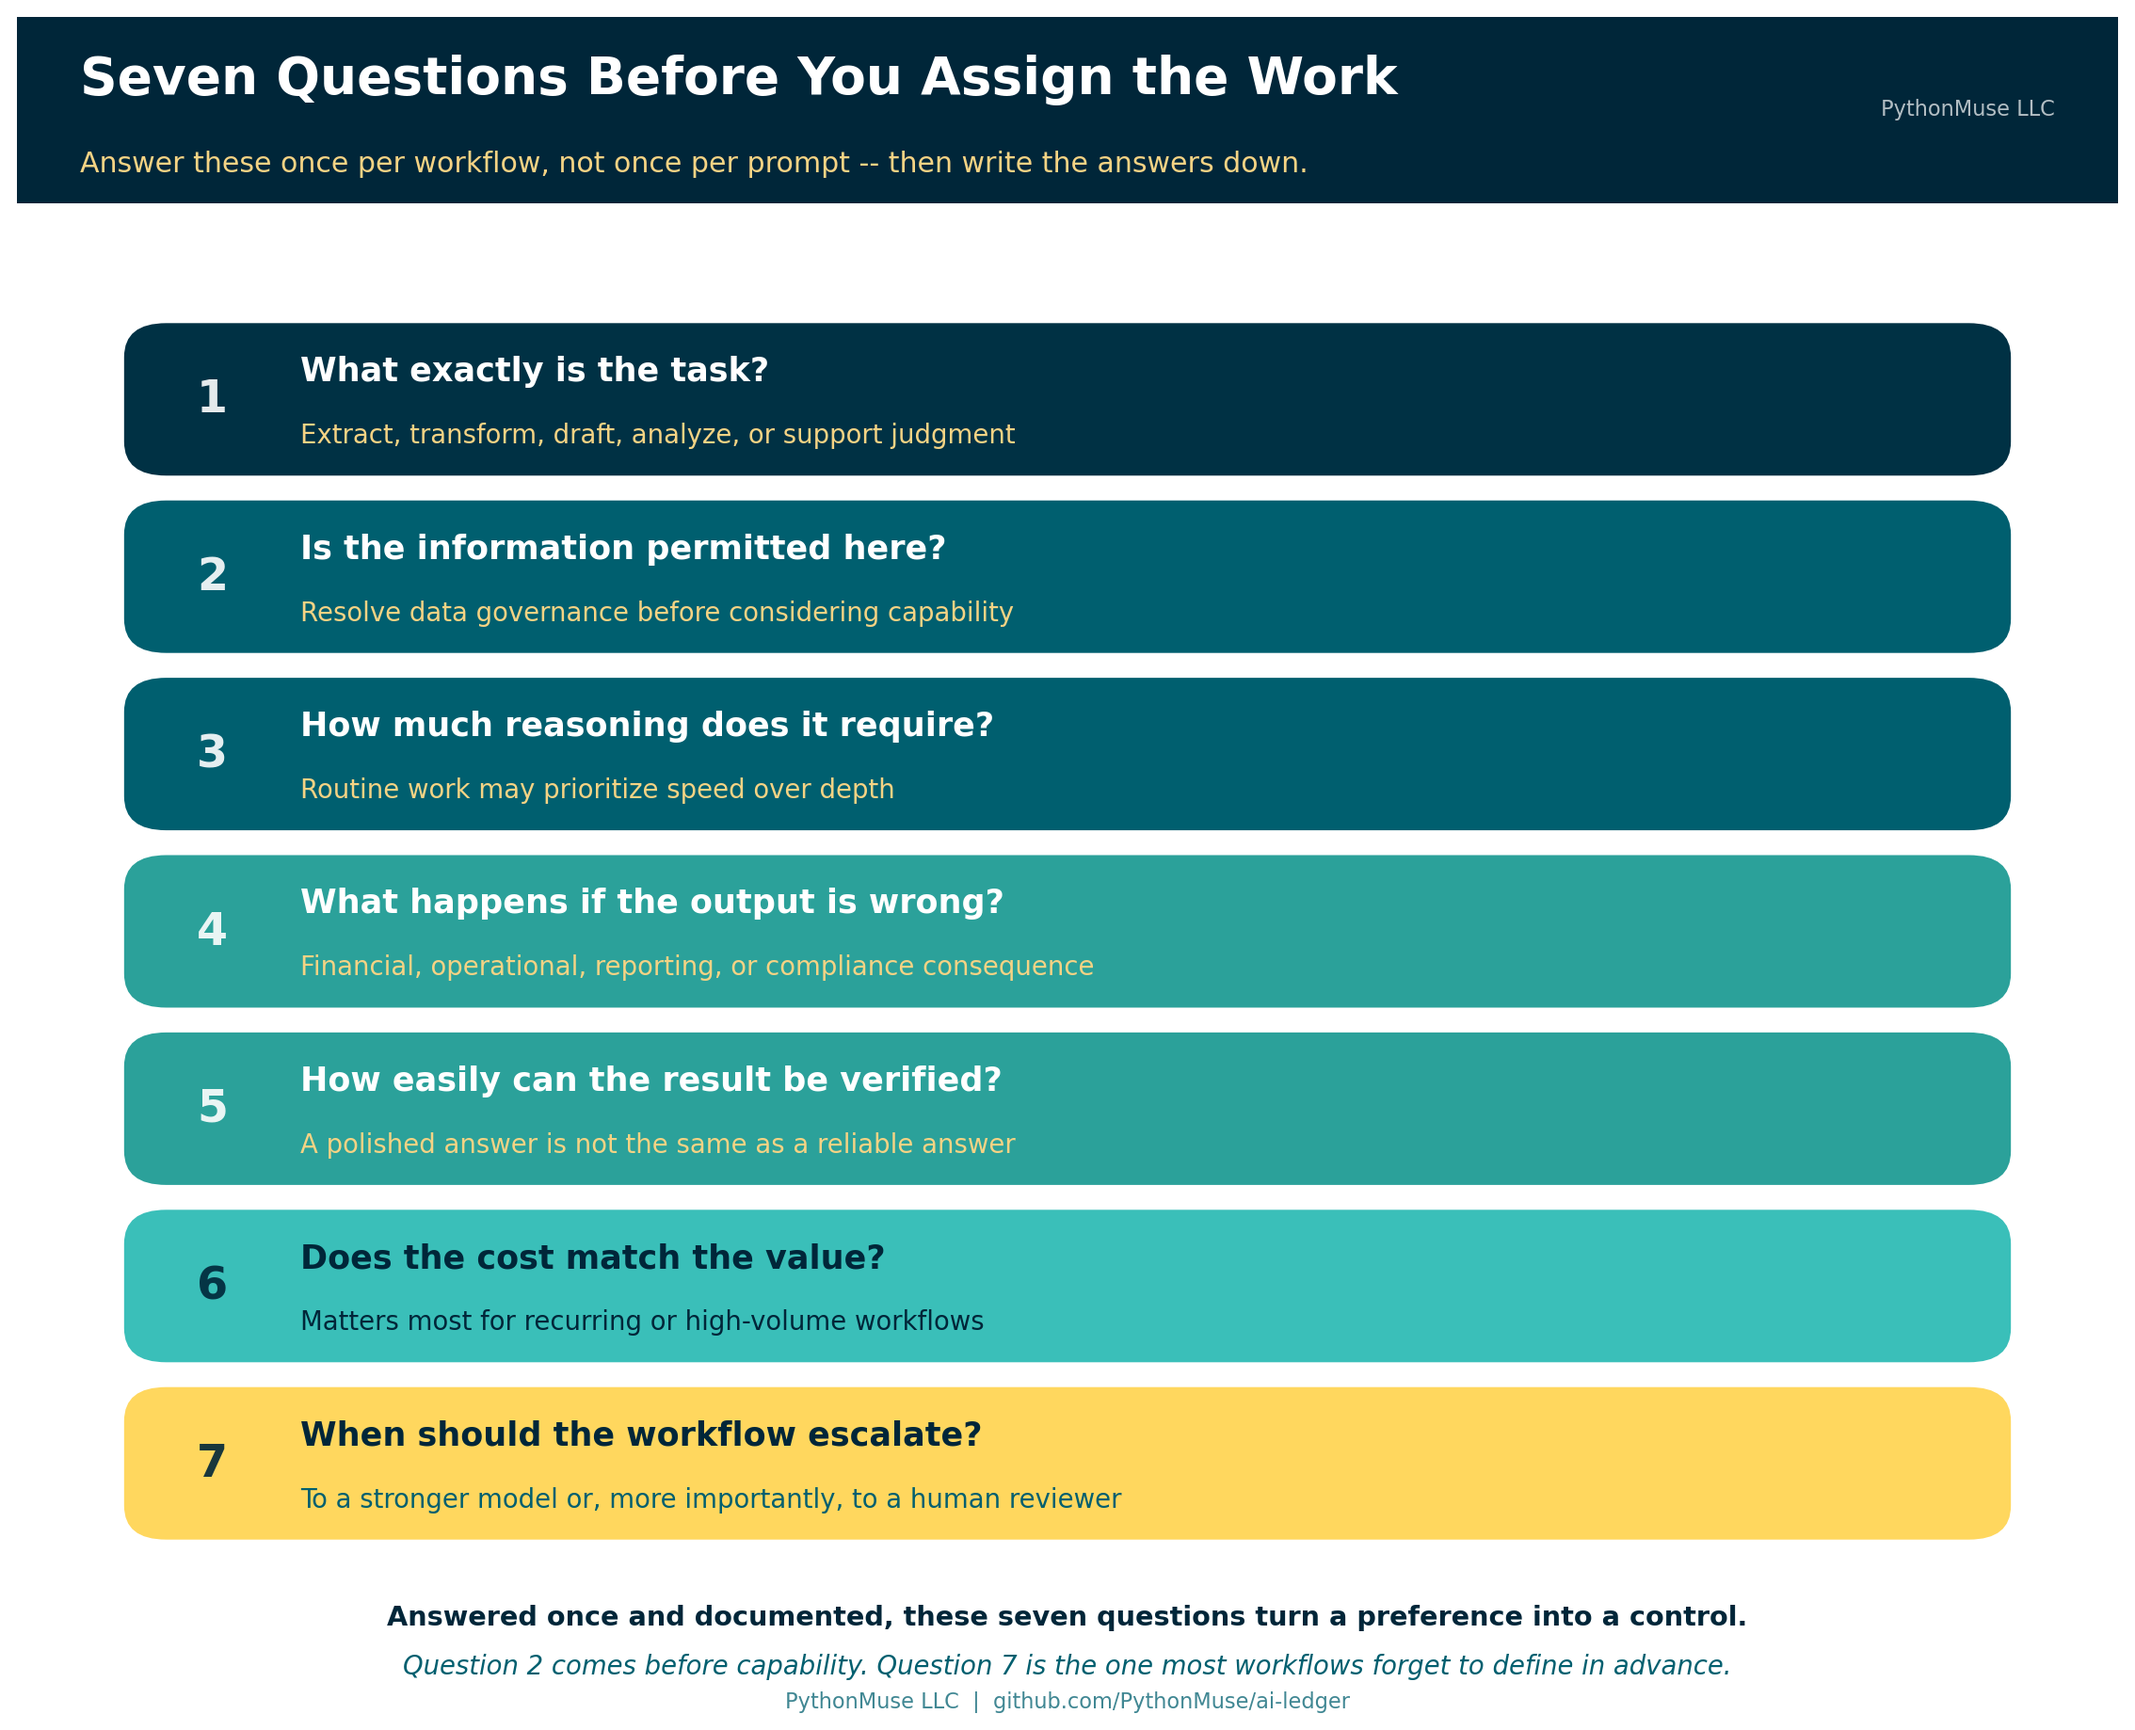
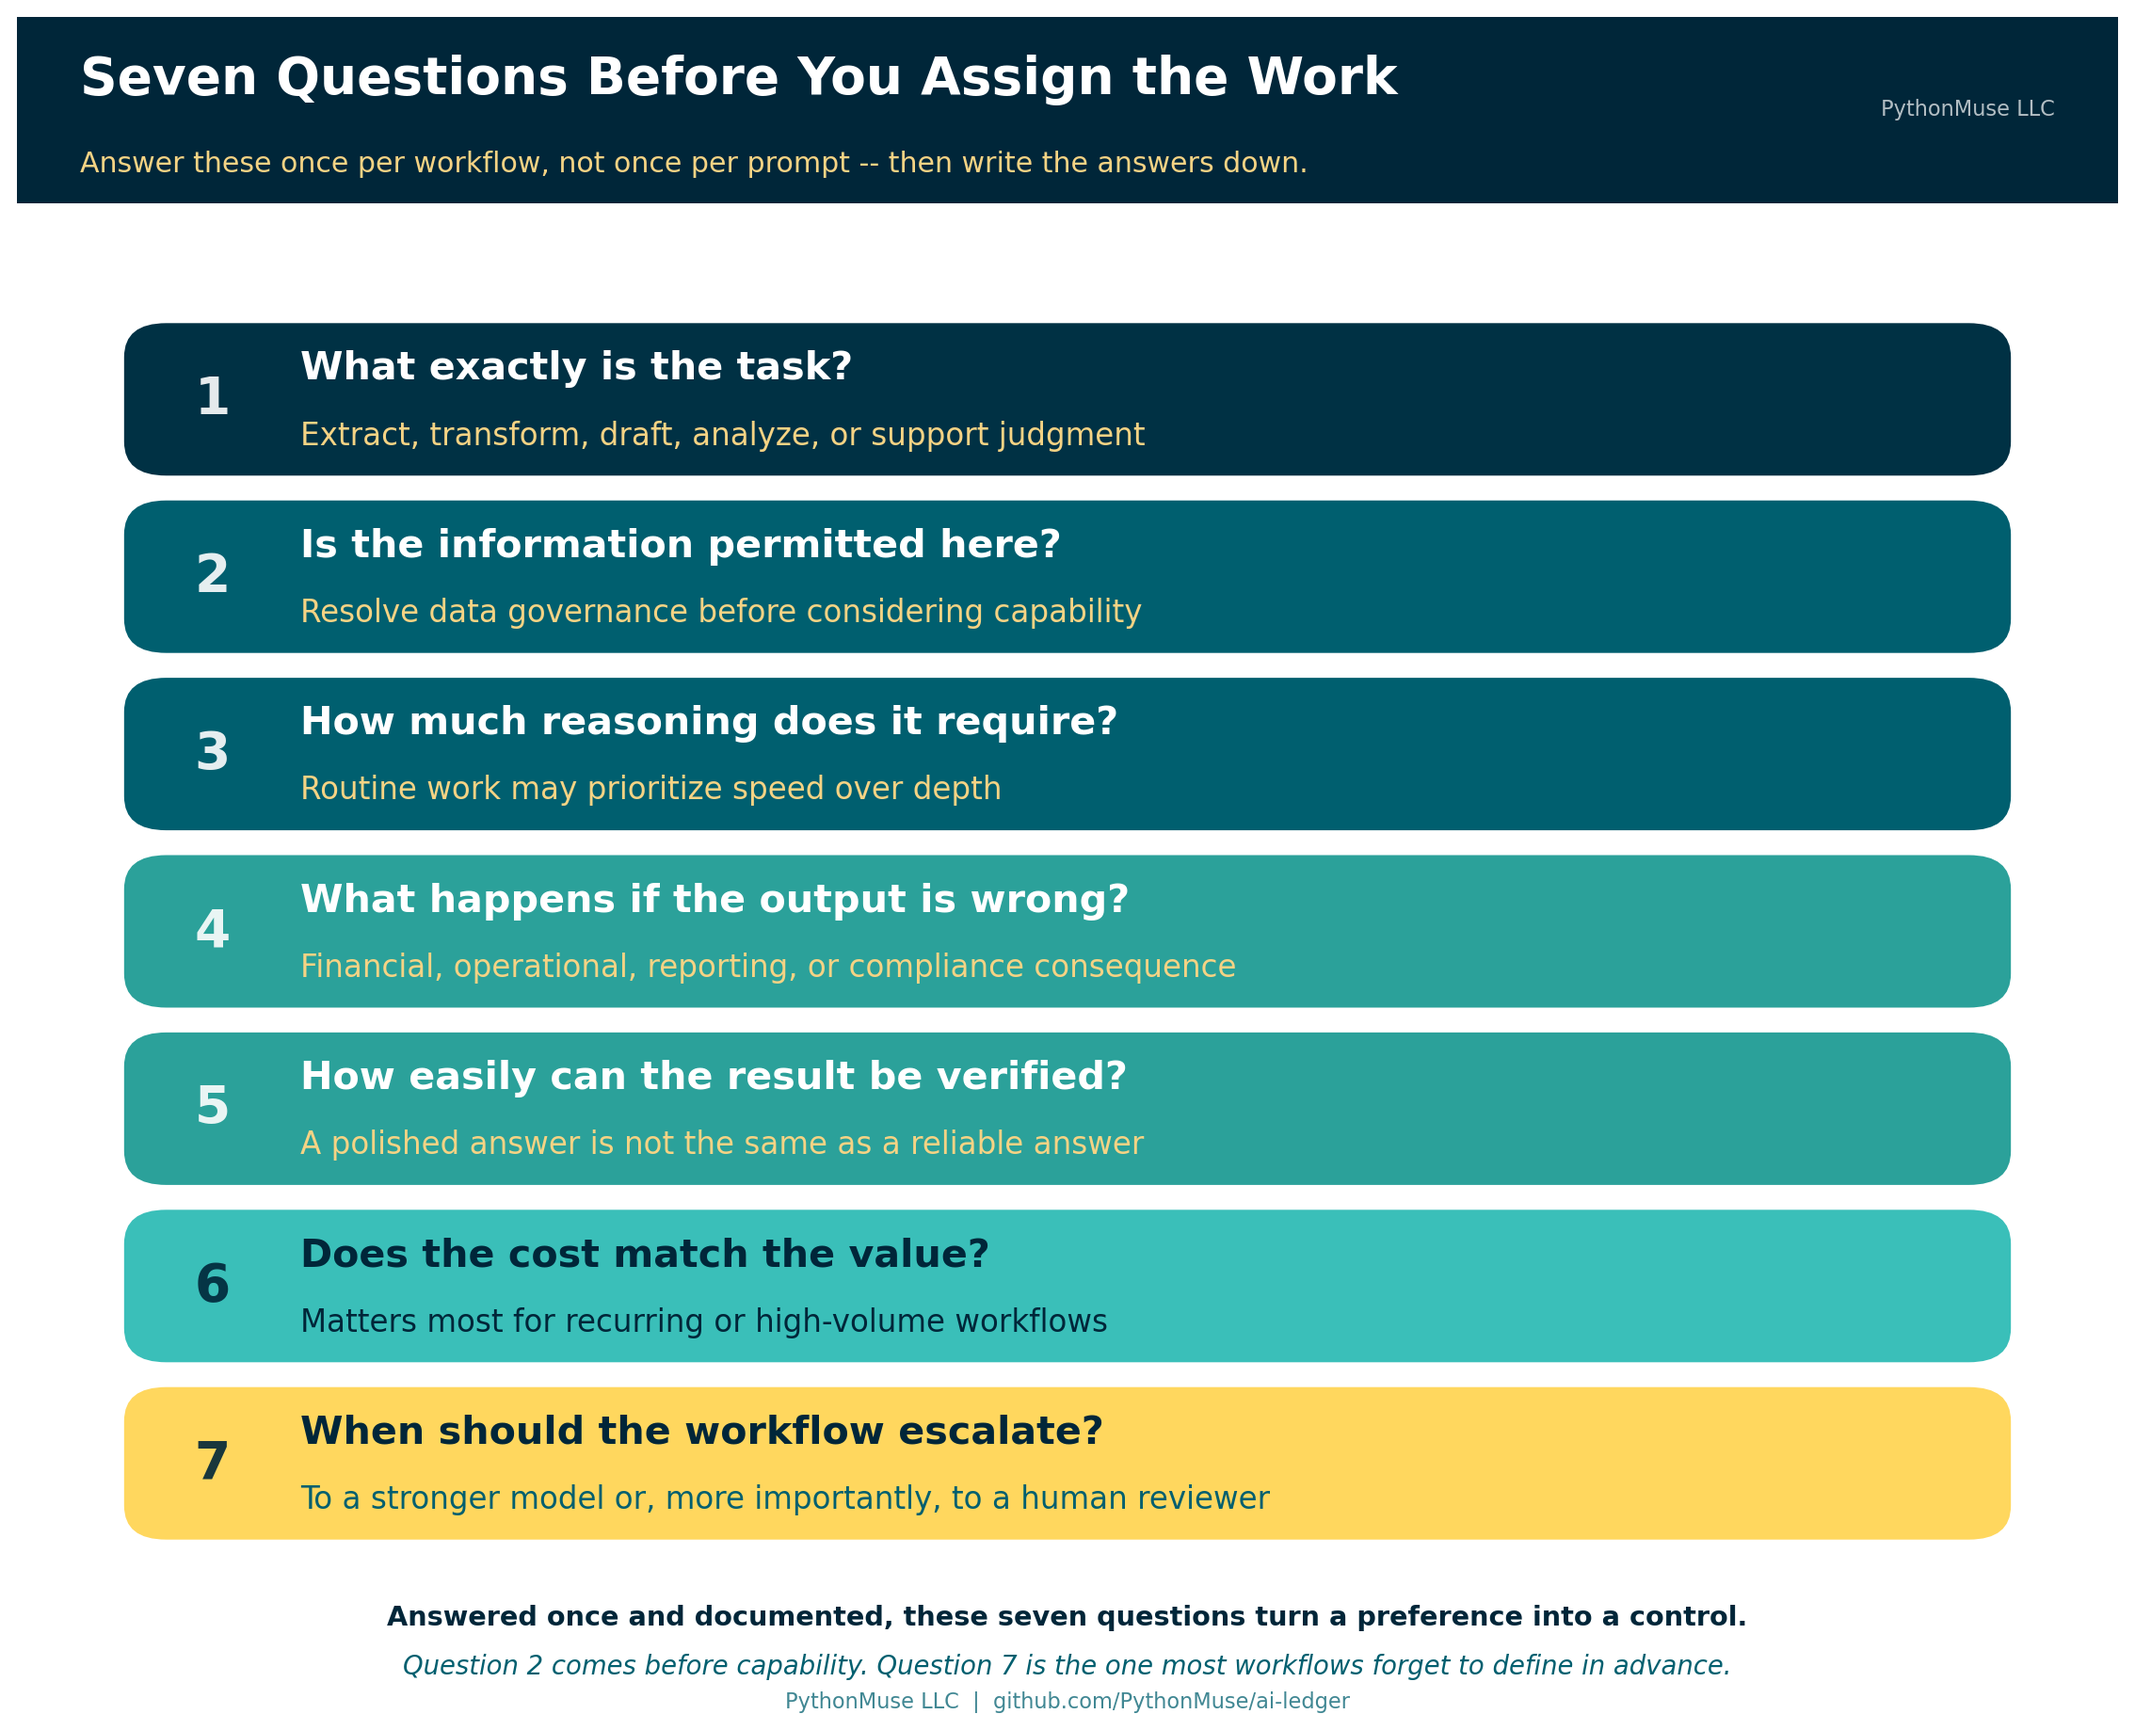
Enlarge text in the seven-questions checklist visual (Article 36)
Bumps question, detail, and number-badge font sizes while re-tuning
offsets so text stays inside each row's boundary.

diff --git a/articles/36-model-selection-is-a-control/generate_visuals.py b/articles/36-model-selection-is-a-control/generate_visuals.py
@@ -360,13 +360,13 @@ def make_seven_questions():
         text_color, sub_color = text_colors(color)
 
         rounded_box(ax, (x0, y), w, row_h, color, text_color=text_color,
-                    text=q, fontsize=14, ha="left",
+                    text=q, fontsize=16.5, ha="left",
                     text_x=x0 + badge_w + 0.028,
-                    sub=detail, subsize=11, sub_color=sub_color,
-                    title_offset=0.20, sub_offset=0.26)
+                    sub=detail, subsize=13, sub_color=sub_color,
+                    title_offset=0.22, sub_offset=0.26)
 
         # Number badge sits inside the row, on the left.
-        ax.text(x0 + badge_w / 2 + 0.012, y + row_h / 2, num, fontsize=19,
+        ax.text(x0 + badge_w / 2 + 0.012, y + row_h / 2, num, fontsize=22,
                 fontweight="bold", color=text_color, ha="center", va="center",
                 zorder=4, alpha=0.9)
 
